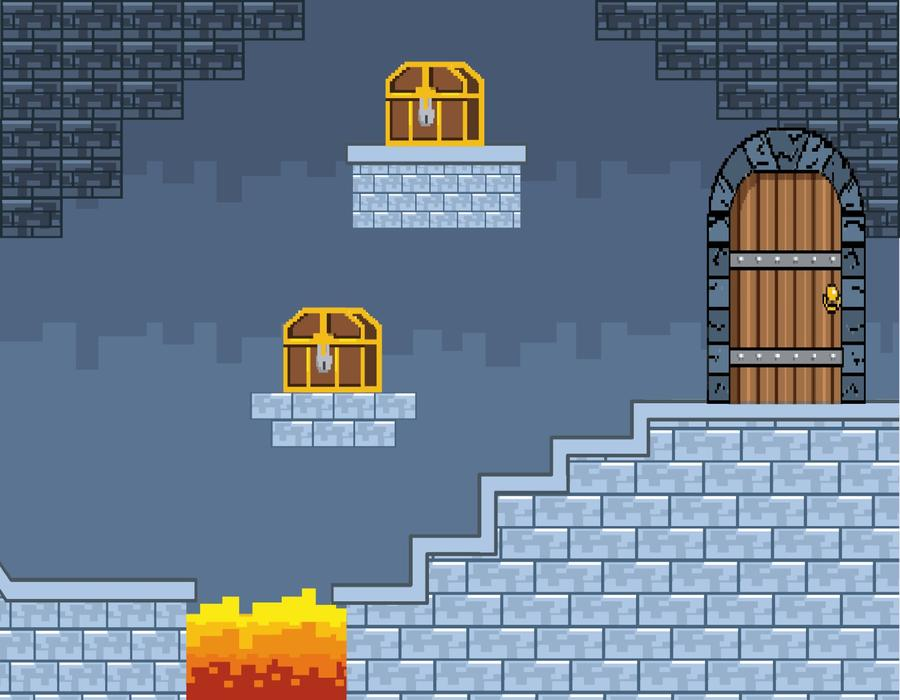
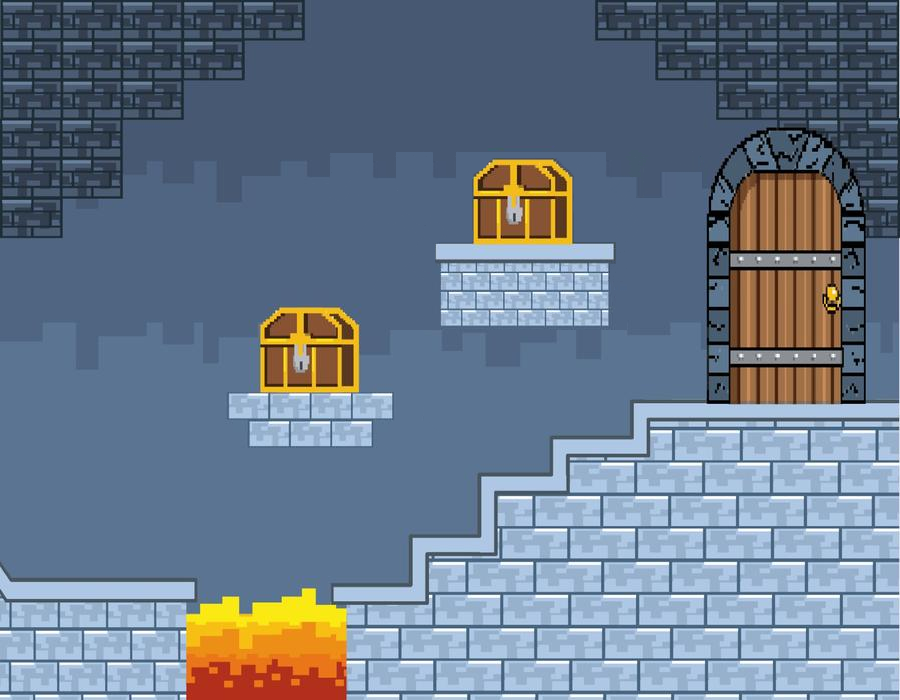
Aggiunto i rettangoli sotto le chest dello sfondi1 e modificato l'immagine Sfondo1.jpg

Changed region(s): [[0.3733, 0.06, 0.6844, 0.48], [0.2489, 0.42, 0.4667, 0.66]]

diff --git a/src/it/edu/iisgubbio/lovelace/GiocoInterattivo.java b/src/it/edu/iisgubbio/lovelace/GiocoInterattivo.java
@@ -237,6 +237,10 @@ public class GiocoInterattivo {
 	Pane schermataGioco = new Pane(); //variabile di appoggio per areaGioco
 	OggettoPannello dialogo; //per un dialogo
 	Group dialogoView; //per visualizzare un dialogo
+	Rectangle rettangoloSottoChest1=new Rectangle(183,55);
+	Rectangle rettangoloSottoChest2=new Rectangle(180,70);
+	
+	
 	public void scenadue(RaccoltaTesti testoDialogo, Group gruppo) {
 		if(!areaGioco.getId().equals("gioco2")) {
 			areaGioco.getChildren().clear();
@@ -245,6 +249,13 @@ public class GiocoInterattivo {
 			for(int i=0; i<Menu.LARGHEZZA_AREA_GIOCO; i+=25) {
 				areaGioco.getChildren().add(new Line(i,0,i,Menu.ALTEZZA_AREA_GIOCO));
 			}
+			rettangoloSottoChest1.setLayoutX(230);
+			rettangoloSottoChest1.setLayoutY(400);
+			
+			rettangoloSottoChest2.setLayoutX(425);
+			rettangoloSottoChest2.setLayoutY(250);
+			areaGioco.getChildren().addAll(rettangoloSottoChest1,rettangoloSottoChest2);
+			
 			areaGioco.setId("gioco2");
 			adaImageView.setFitWidth(150);
 			adaImageView.setFitHeight(150);

diff --git a/src/it/edu/iisgubbio/lovelace/Start.java b/src/it/edu/iisgubbio/lovelace/Start.java
@@ -71,7 +71,7 @@ public class Start{
 			if(!giocoInterattivo) {
 				nDialogo++;
 				//il 7 corrisponde al numero dei dialoghi della prima parte
-				if(nDialogo==7 && !completato) {
+				if(nDialogo==1 && !completato) {
 					giocoInterattivo=true;
 				}
 			}
